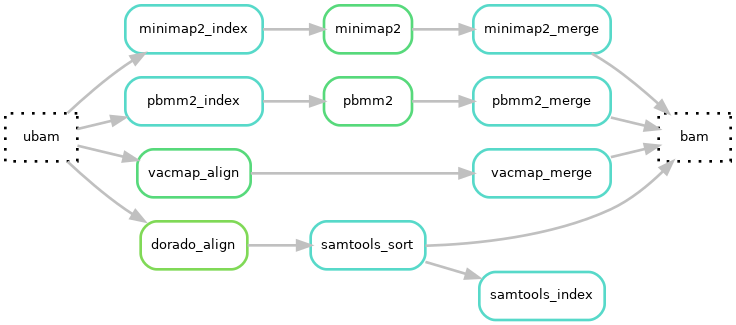
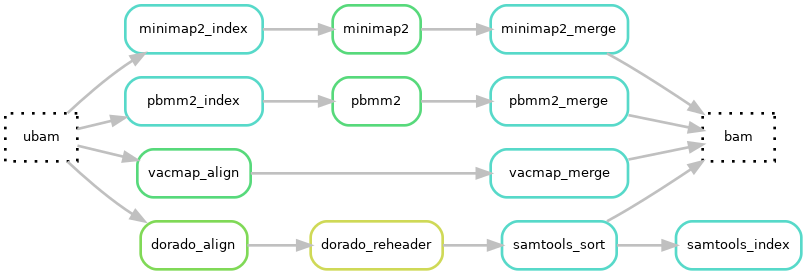
fix: apply filter_ont to minimap2_align and restore dorado read groups
Address the review of #188:

- add get_ont_query(), used by dorado_align and minimap2_align, which
  returns the reads selected by filter_ont for ONT units (units of other
  platforms keep the units.tsv bam) and raises a ValueError for unknown
  values; it replaces the module-level dorado_align_input lambdas
- minimap2_align: add -y for fastq input so the tags in the read headers
  are kept, and read the read group from the units.tsv bam in
  generate_longread_group, since the aligner input can be a fastq
- add dorado_reheader, which replaces the @RG header lines written by
  dorado with those of the units.tsv bam; dorado sets PU, PM, DT and LB
  to unknown for fastq input (filter_ont: filtlong)
- add `default: "None"` to filter_ont in config.schema.yaml
- document that filtlong --trim/--split and chopper trimming without
  --update-mods leave MM/ML tags that no longer match the shortened reads

diff --git a/docs/softwares.md b/docs/softwares.md
@@ -95,17 +95,25 @@ Realign after consensus read creation by fgbio_call_and_filter_consensus_reads a
 ---
 
 ## [dorado_align](https://github.com/nanoporetech/dorado)
-Align basecalled Oxford Nanopore (ONT) reads stored in a `bam` file to a reference genome with `dorado aligner` (minimap2-based), to produce an unsorted `bam` with aligned reads. The `bam` is then sorted by [samtools sort](#samtools-sort) and indexed by [samtools index](#samtools-index).
+Align basecalled Oxford Nanopore (ONT) reads stored in a `bam` file to a reference genome with `dorado aligner` (minimap2-based), to produce an unsorted `bam` with aligned reads. The read group header lines are then restored by [dorado_reheader](#dorado_reheader), and the `bam` is sorted by [samtools sort](#samtools-sort) and indexed by [samtools index](#samtools-index).
 
-The input reads are selected with `filter_ont` in `config.yaml`:
+The input reads of ONT units are selected with `filter_ont` in `config.yaml`. The same setting applies to [minimap2_align](#minimap2_align):
 
-| `filter_ont` | Input to `dorado_align` |
+| `filter_ont` | Input reads |
 |---|---|
 | `"None"` (default) | the unaligned `bam` given in the `bam` column of `units.tsv` |
 | `"chopper"` | the filtered unaligned `bam` from chopper, `prealignment/chopper/{sample}_{type}_{processing_unit}_{barcode}.filtered.bam` |
 | `"filtlong"` | the filtered `fastq` from filtlong, `prealignment/filtlong/{sample}_{type}_{processing_unit}_{barcode}.filtered.fastq.gz` |
 
-The filtlong `fastq` is expected to be converted from the unaligned `bam` with `samtools fastq -T`, so that the bam tags are written to the read headers and `dorado aligner` can restore them.
+The filtlong `fastq` is expected to be converted from the unaligned `bam` with `samtools fastq -T`, so that the bam tags are written to the read headers and kept in the aligned `bam`.
+
+!!! warning "Reads with modified base tags (`MM`/`ML`)"
+    `MM`/`ML` tags give modified base positions along the read, so they no longer match a read that has been trimmed or split.
+
+    - **filtlong**: do not use `--trim` or `--split`. Filtlong copies the original read header, tags included, to the shortened reads.
+    - **chopper**: only trim (`--trim-approach`, `--trim-poly-tails`) together with `--update-mods`. Without it, chopper copies the original `MM`/`ML` tags to the trimmed reads; with it, chopper recomputes `MM`, `ML` and `MN` for the trimmed range (checked for chopper 0.15.0).
+
+    Filtering reads without trimming them keeps the tags valid with both tools.
 
 ### :snake: Rule
 
@@ -124,6 +132,29 @@ The filtlong `fastq` is expected to be converted from the unaligned `bam` with `
 #### Resources settings (`resources.yaml`)
 
 #RESOURCESSCHEMA__dorado_align#
+
+---
+
+## [dorado_reheader](http://www.htslib.org/doc/samtools-reheader.html)
+Replace the `@RG` header lines of the `bam` written by [dorado_align](#dorado_align) with the `@RG` lines of the unaligned `bam` in `units.tsv`, using samtools reheader. With a `fastq` input (`filter_ont: "filtlong"`), dorado rebuilds the `@RG` lines from the read tags and sets `PU`, `PM`, `DT` and `LB` to `unknown`; this rule restores the original values. The read group IDs are the same in both headers, since dorado keeps the `RG` tag of each read. Other header lines are kept as written by dorado, and the header is left unchanged if the unaligned `bam` has no `@RG` lines.
+
+### :snake: Rule
+
+#SNAKEMAKE_RULE_SOURCE__dorado__dorado_reheader#
+
+#### :left_right_arrow: input / output files
+
+#SNAKEMAKE_RULE_TABLE__dorado__dorado_reheader#
+
+### :wrench: Configuration
+
+#### Software settings (`config.yaml`)
+
+#CONFIGSCHEMA__dorado_reheader#
+
+#### Resources settings (`resources.yaml`)
+
+#RESOURCESSCHEMA__dorado_reheader#
 
 ---
 
@@ -221,6 +252,8 @@ Copies the UMI at the end of the BAM’s read name to the RX tag using fgbio in 
 
 ## [minimap2_align](https://github.com/lh3/minimap2)
 Align long read sequencing data stored in a `bam`file to a reference genome to produce a `bam` with aligned reads.
+
+For ONT units, `filter_ont` selects the filtered reads from chopper or filtlong instead, as described for [dorado_align](#dorado_align), including the warning about modified base tags. With the filtlong `fastq`, `-y` is added so that the tags in the read headers are copied to the aligned `bam`. The read group is always taken from the unaligned `bam` in `units.tsv`.
 
 ### :snake: Rule
 
